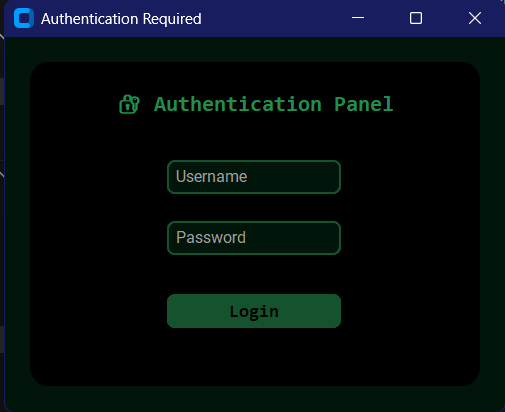
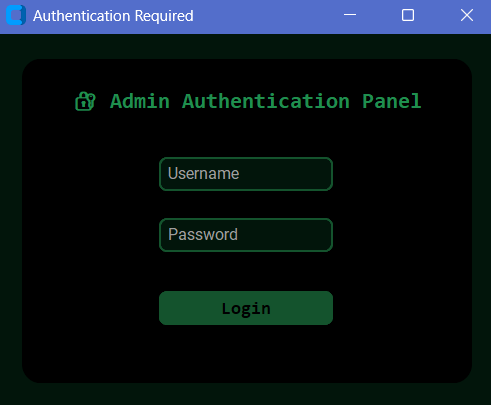
Enhanced Service & Process Identification

diff --git a/Port_Scanner_ui.py b/Port_Scanner_ui.py
@@ -1,3 +1,4 @@
+
 import customtkinter as ctk
 import threading
 import socket
@@ -8,24 +9,65 @@ import csv
 from tkinter import filedialog
 import time
 import winsound   #For sound (Windows only)
+import psutil
 
 #ORIGINAL LOGIC
 
 COMMON_SERVICES = {
+    20: "FTP-DATA",
     21: "FTP",
     22: "SSH",
     23: "Telnet",
     25: "SMTP",
     53: "DNS",
+    67: "DHCP",
+    68: "DHCP",
     80: "HTTP",
     110: "POP3",
+    135: "MS-RPC",
+    139: "NetBIOS",
     143: "IMAP",
     443: "HTTPS",
+    445: "SMB",
     3306: "MySQL",
+    3389: "RDP",
+    5432: "PostgreSQL",
+    5900: "VNC",
     8080: "HTTP-ALT"
 }
 
 MAX_THREADS = 100
+
+
+# SERVICE IDENTIFICATION
+
+def identify_local_process(port):
+    try:
+        for conn in psutil.net_connections(kind="tcp"):
+
+            if (conn.laddr and
+                conn.laddr.port == port and
+                conn.status == psutil.CONN_LISTEN):
+
+                if conn.pid is None:
+                    return "Unknown", "Unknown"
+
+                process = psutil.Process(conn.pid)
+
+                return process.name(), conn.pid
+
+        return "Not Found", "N/A"
+
+    except (psutil.AccessDenied, psutil.NoSuchProcess):
+        return "Access Denied", "N/A"
+
+
+def identify_service(port):
+    try:
+        return socket.getservbyport(port, "tcp").upper()
+    except OSError:
+        return COMMON_SERVICES.get(port, "Unknown")
+
 
 class PortScanner:
     def __init__(self, ui):
@@ -54,12 +96,19 @@ class PortScanner:
             result = sock.connect_ex((ip, port))
 
             if result == 0:
-                service = COMMON_SERVICES.get(port, "Unknown")
+                service = identify_service(port)
+
+                process_name, pid = identify_local_process(port)
+
                 banner = self.banner_grab(sock)
 
                 with self.lock:
-                    self.open_ports[port] = \
-                        f"Open | Service: {service} | Banner: {banner}"
+                    self.open_ports[port] = (
+                        f"Open | Service: {service} | "
+                        f"Process: {process_name} | "
+                        f"PID: {pid} | "
+                        f"Banner: {banner}"
+                    )
 
                     self.ui.add_result(
                         f"OPEN PORT {port} → {self.open_ports[port]}"
@@ -116,6 +165,7 @@ class PortScanner:
     def stop_scan(self):
         self.running = False
 
+
 #LOGIN SCREEN
 
 class Login(ctk.CTk):
@@ -127,7 +177,7 @@ class Login(ctk.CTk):
 
         #Dark Green Hacker Theme
         ctk.set_appearance_mode("dark")
-        self.configure(fg_color="#02150b")  #Main Background
+        self.configure(fg_color="#02150b")
 
         #Container Frame
         self.container = ctk.CTkFrame(self,
@@ -138,7 +188,7 @@ class Login(ctk.CTk):
         #Header
         ctk.CTkLabel(
             self.container,
-            text="🔐 Authentication Panel",
+            text="🔐 Admin Authentication Panel",
             font=("Consolas", 18, "bold"),
             text_color="#1f8f4e"
         ).pack(pady=20)
@@ -183,13 +233,14 @@ class Login(ctk.CTk):
         else:
             winsound.Beep(400, 200)
 
+
 #MAIN APP
 
 class App(ctk.CTk):
     def __init__(self):
         super().__init__()
 
-        self.title("System Port Scanner For Penetration")
+        self.title("System Port Scanner For Penetration Testing")
         self.geometry("1100x700")
         self.configure(fg_color="#011f14")
 
@@ -210,23 +261,27 @@ class App(ctk.CTk):
 
         ctk.CTkLabel(self.sidebar,
                      text="SYSTEM PORTS",
-                     font=("Consolas", 16, "bold"),justify="center",
+                     font=("Consolas", 16, "bold"), justify="center",
                      text_color="#1f8f4e").pack(pady=10)
 
-        self.host = ctk.CTkEntry(self.sidebar, placeholder_text="Host",fg_color="#02150b",
-            text_color="#1f8f4e",border_color="#14532d",justify="center")
+        self.host = ctk.CTkEntry(self.sidebar, placeholder_text="Host",
+            fg_color="#02150b", text_color="#1f8f4e",
+            border_color="#14532d", justify="center")
         self.host.pack(pady=5, padx=10)
 
-        self.start_port = ctk.CTkEntry(self.sidebar, placeholder_text="Start Port",fg_color="#02150b",
-            text_color="#1f8f4e",border_color="#14532d",justify="center")
+        self.start_port = ctk.CTkEntry(self.sidebar, placeholder_text="Start Port",
+            fg_color="#02150b", text_color="#1f8f4e",
+            border_color="#14532d", justify="center")
         self.start_port.pack(pady=5, padx=10)
 
-        self.end_port = ctk.CTkEntry(self.sidebar, placeholder_text="End Port",fg_color="#02150b",
-            text_color="#1f8f4e",border_color="#14532d",justify="center")
+        self.end_port = ctk.CTkEntry(self.sidebar, placeholder_text="End Port",
+            fg_color="#02150b", text_color="#1f8f4e",
+            border_color="#14532d", justify="center")
         self.end_port.pack(pady=5, padx=10)
 
-        self.delay = ctk.CTkEntry(self.sidebar, placeholder_text="Delay {0.001}",fg_color="#02150b",
-            text_color="#1f8f4e",border_color="#14532d",justify="center")
+        self.delay = ctk.CTkEntry(self.sidebar, placeholder_text="Delay {0.001}",
+            fg_color="#02150b", text_color="#1f8f4e",
+            border_color="#14532d", justify="center")
         self.delay.pack(pady=5, padx=10)
 
         ctk.CTkButton(self.sidebar, text="Start Scan",
@@ -341,6 +396,7 @@ class App(ctk.CTk):
     def update_progress(self):
         value = self.scanner.scanned_ports / self.total_ports
         self.progress.set(value)
+
 
 #RUN The Whole Tool
 
